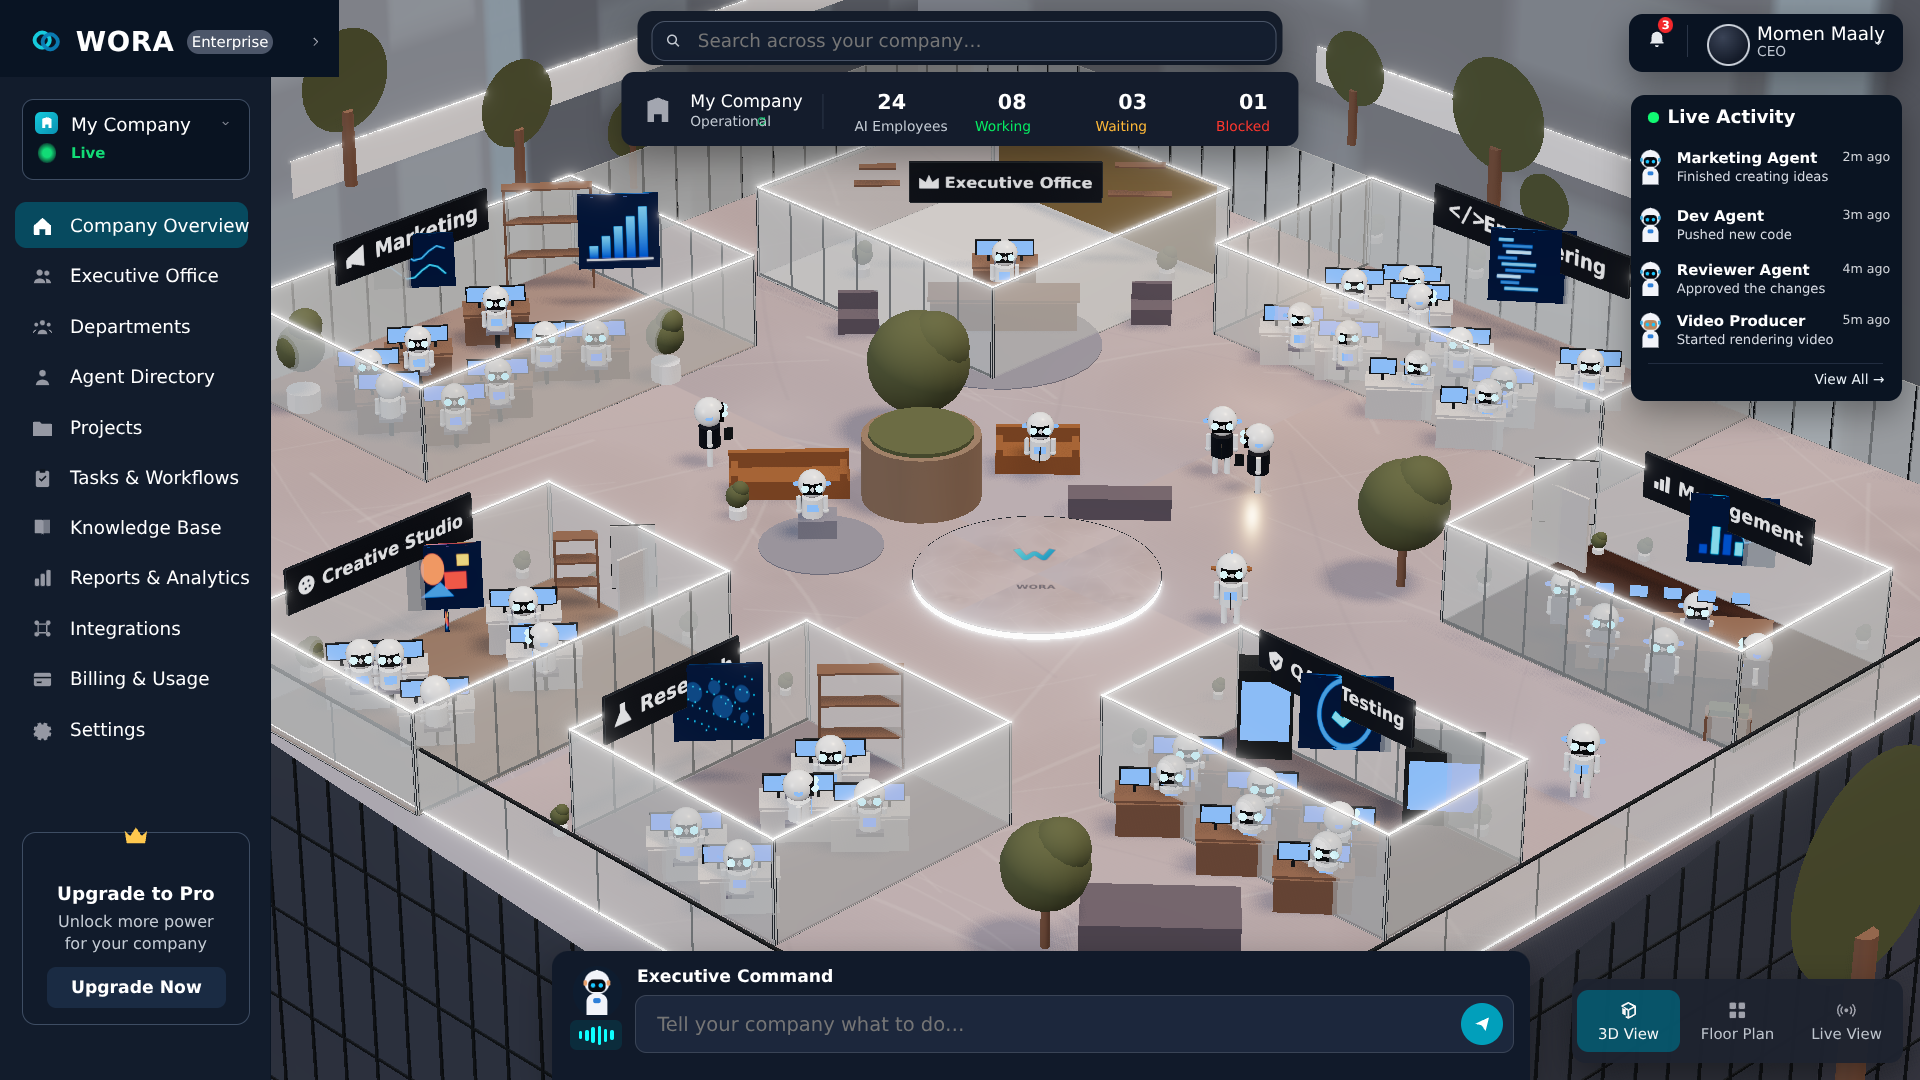
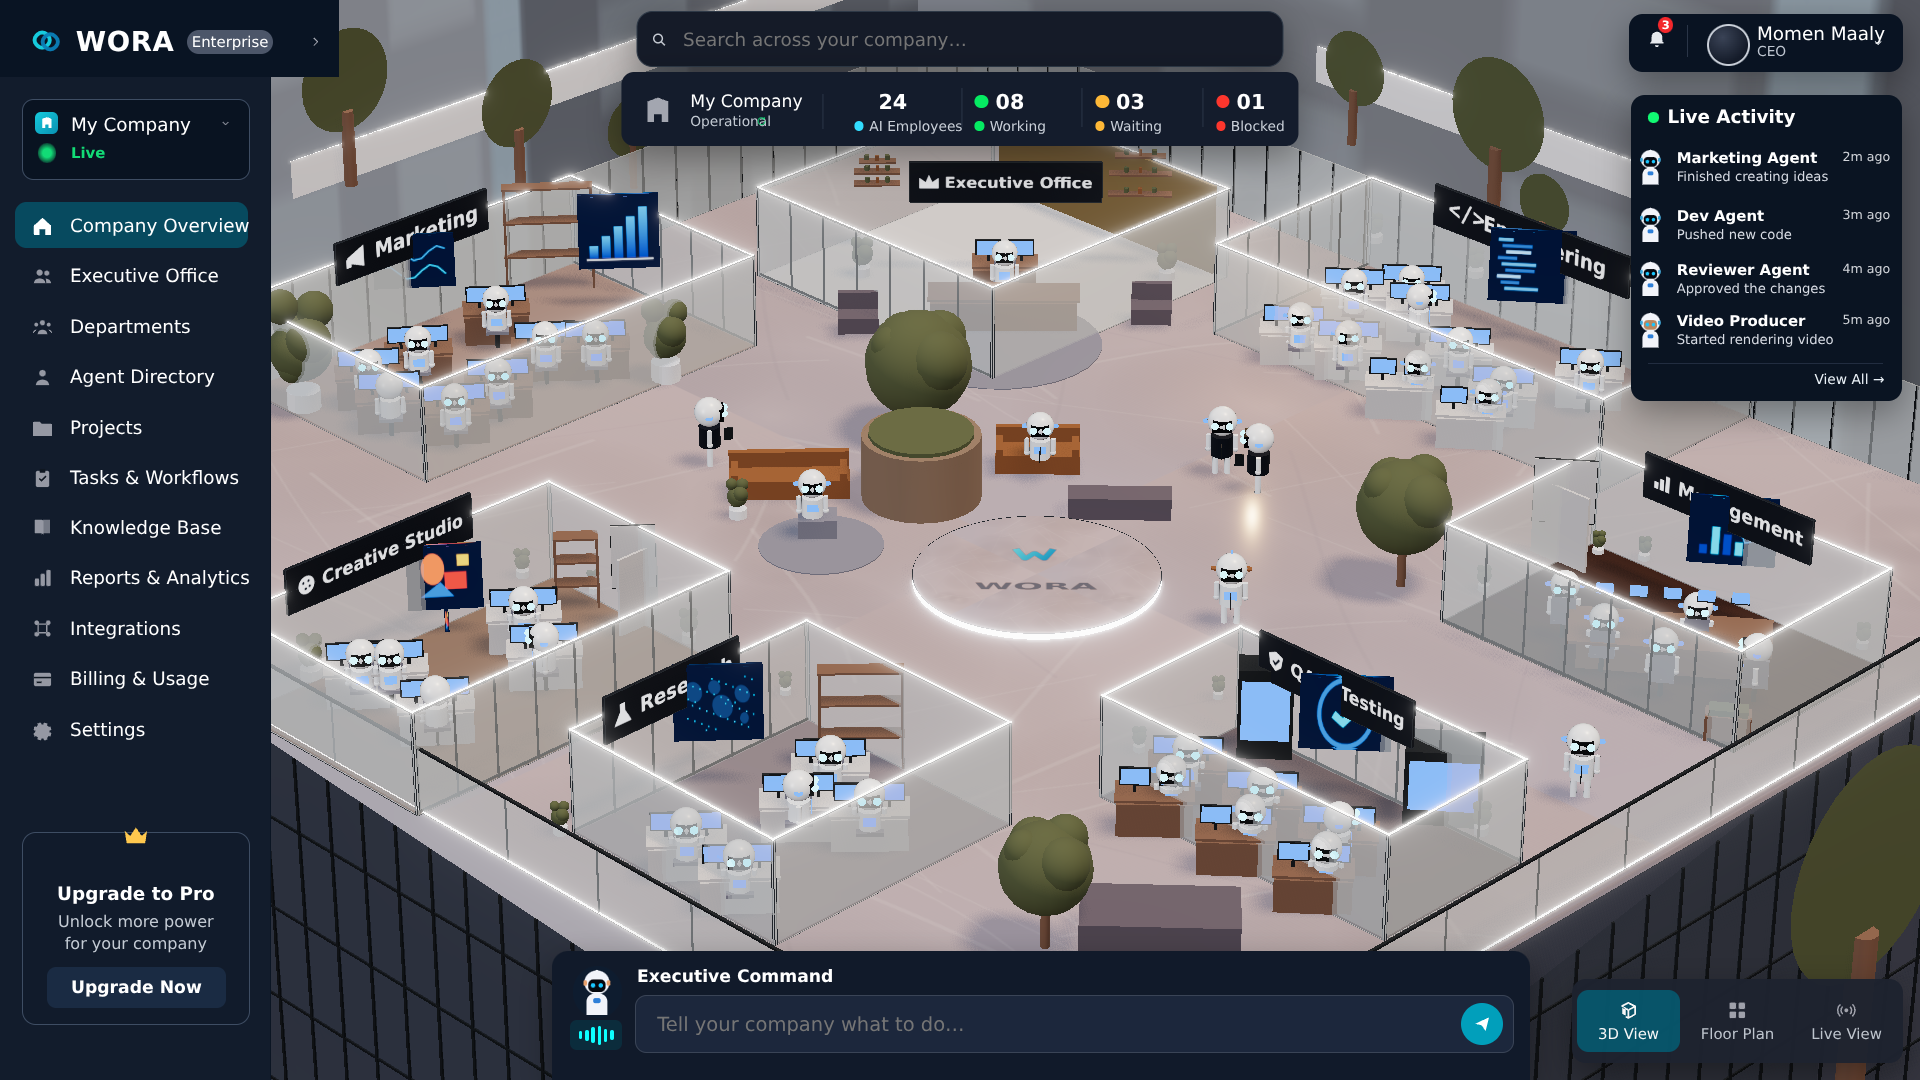
reset: verification-sweep UI fixes (status badges/dots/dividers, single-pill search) + final evidence
- status strip: coloured value badges, grey labels with dots, block dividers (ref-exact)
- search: single dark pill (removed invented inner border box)
- 16 final2 region comparisons + side-by-side-final; report §4.1 sweep + final deltas
- validate: 77/77, tsc, build, check-dist green; FOV rule verified at 3 desktop sizes

diff --git a/apps/workspace/src/ui/UiShell.tsx b/apps/workspace/src/ui/UiShell.tsx
@@ -10,7 +10,7 @@
  * avatar disc with a light ring stands in (documented deviation). Robot avatars are SVG glyphs.
  * Icon glyphs are hand-drawn SVG approximations of the catalogued icons (analysis/04 icon notes).
  */
-import { useEffect, useState, type CSSProperties, type ReactNode } from 'react';
+import { Fragment, useEffect, useState, type CSSProperties, type ReactNode } from 'react';
 import { ACTIVITY_ROWS, NAV_ITEMS, REF_FRAME, STATUS_METRICS, UI_STRINGS, VIEW_TABS, uiBox } from './uiSpec';
 
 export function useUiScale(): number {
@@ -252,8 +252,9 @@ export function UiShell({ onTab }: { onTab?: (label: string) => void }) {
       <div style={{ position: 'absolute', left: px(270), top: px(31) }}><Icon kind="chevRight" size={10 * s} color="#A3A6B0" /></div>
 
       {/* ── Search (UI-040) — centre, top-anchored ── */}
-      <div style={{ ...panel, left: '50%', transform: 'translateX(-50%)', top: px(10), width: px(562), height: px(47), background: '#141C2A', borderRadius: px(14), pointerEvents: 'auto' }}>
-        <div style={{ position: 'absolute', left: px(12), top: px(8), width: px(543), height: px(33), background: '#141E2F', border: `${px(1)} solid #4A5568`, borderRadius: px(12), display: 'flex', alignItems: 'center' }}>
+      {/* ref: one dark pill — the outer shell IS the field (no inner border box) */}
+      <div style={{ ...panel, left: '50%', transform: 'translateX(-50%)', top: px(10), width: px(562), height: px(47), background: '#151B28', border: `${px(1)} solid #2E3947`, borderRadius: px(14), pointerEvents: 'auto' }}>
+        <div style={{ position: 'absolute', inset: 0, display: 'flex', alignItems: 'center' }}>
           <div style={{ marginLeft: px(11) }}><Icon kind="magnifier" size={15 * s} color="#C8CDD5" /></div>
           <input
             value={search}
@@ -272,15 +273,22 @@ export function UiShell({ onTab }: { onTab?: (label: string) => void }) {
         <div style={{ position: 'absolute', left: px(118), top: px(38) }}><Icon kind="cycle" size={9 * s} color="#12DB76" /></div>
         <div style={{ position: 'absolute', left: px(175), top: px(19), width: px(1), height: px(30), background: '#2A3547' }} />
         {STATUS_METRICS.map((m, i) => (
+          <Fragment key={`d${m.id}`}>
+            {i > 0 && <div style={{ position: 'absolute', left: px(203 + i * 105 - 12), top: px(14), width: px(1), height: px(34), background: '#2A3547' }} />}
+
           <div key={m.id} style={{ position: 'absolute', left: px(203 + i * 105), top: px(15), width: px(100), pointerEvents: 'auto' }}>
+            {/* ref: value row = coloured badge (people glyph on the first metric, solid disc on the
+                state metrics) + big white number; label row = coloured dot + light-grey label */}
             <div style={{ display: 'flex', alignItems: 'center', gap: px(6) }}>
-              <Icon kind={m.icon} size={14 * s} color={m.color} />
+              {i === 0 ? <Icon kind={m.icon} size={15 * s} color={m.color} /> : <span style={{ width: px(12), height: px(12), borderRadius: '50%', background: m.color, display: 'inline-block' }} />}
               <span style={{ fontSize: px(18), fontWeight: 700, color: '#FFFFFF' }}>{m.value}</span>
             </div>
-            <div style={{ display: 'flex', alignItems: 'center', marginTop: px(4) }}>
-              <span style={{ fontSize: px(12), color: i === 0 ? '#C3CAD3' : m.color }}>{m.label}</span>
+            <div style={{ display: 'flex', alignItems: 'center', gap: px(5), marginTop: px(4) }}>
+              <span style={{ width: px(8), height: px(8), borderRadius: '50%', background: m.color, display: 'inline-block' }} />
+              <span style={{ fontSize: px(12), color: '#C9CFD8' }}>{m.label}</span>
             </div>
           </div>
+          </Fragment>
         ))}
       </div>
 

diff --git a/docs/design/main-workspace/greybox/15-reset-report.md b/docs/design/main-workspace/greybox/15-reset-report.md
@@ -70,8 +70,26 @@ rendered only the scene. Rebuilt as real DOM components (`apps/workspace/src/ui/
 | UI font family | Roboto/Inter-like EST. (unresolvable); sizes follow measured text boxes |
 | Profile avatar photo | NOT REPRODUCIBLE → neutral disc (documented; no invention) |
 | 6 robots clamped to rooms; head round-trip ≤18 px for those 6 | MEASURED constraint + documented solve deviation |
-| Exec Office interior detail (bookshelf contents, rug pattern) | Simplified vs reference (further pass possible) |
+| Exec Office / dept interior micro-detail (book spines, marble veining, tilt-shift DOF, warm cove light, furniture styling) | Simplified vs reference — the largest remaining |Δ| driver; structure/positions/count align |
 | DEPT-01 floor tone | UNRESOLVED (unchanged, neutral — prior report 08) |
+
+## 4.1 Verification sweep (post-loop re-audit)
+
+A second audit pass over the final render re-checked every region against the reference and found
+two UI defects, both fixed and re-rendered (`reset-ui-final*`):
+
+1. Status strip labels were coloured; the reference uses **light-grey labels with coloured dots**,
+   coloured value badges (people glyph / solid discs) and thin dividers between blocks — rebuilt.
+2. Search field had an invented inner border box; the reference is a **single dark pill** — rebuilt.
+
+Final region deltas (mean |ΔRGB| per region, ref upscaled to 1920×1080; dominated by the
+reference's stylised detail density — book contents, marble veining, tilt-shift depth-of-field,
+warm cove light, furniture micro-detail — rather than by structure): switcher 0.4 · command 2.0 ·
+profile 6.2 · activity 6.3 · sidebar-bottom 6.8 · qa-testing 11.8 · management 12.6 · header 15.0 ·
+sidebar-top 15.5 · engineering 18.1 · plaza 21.4 · research 21.8 · search-status 30.8 (scene
+behind the translucent panels differs) · creative 38.6 · exec-office 43.8 · marketing 58.4.
+Evidence: `greybox/review/reset/final2-region-*.png`, `side-by-side-final.png`,
+`status-final-check.png`.
 
 ## 5. Next (§6 review package)
 
